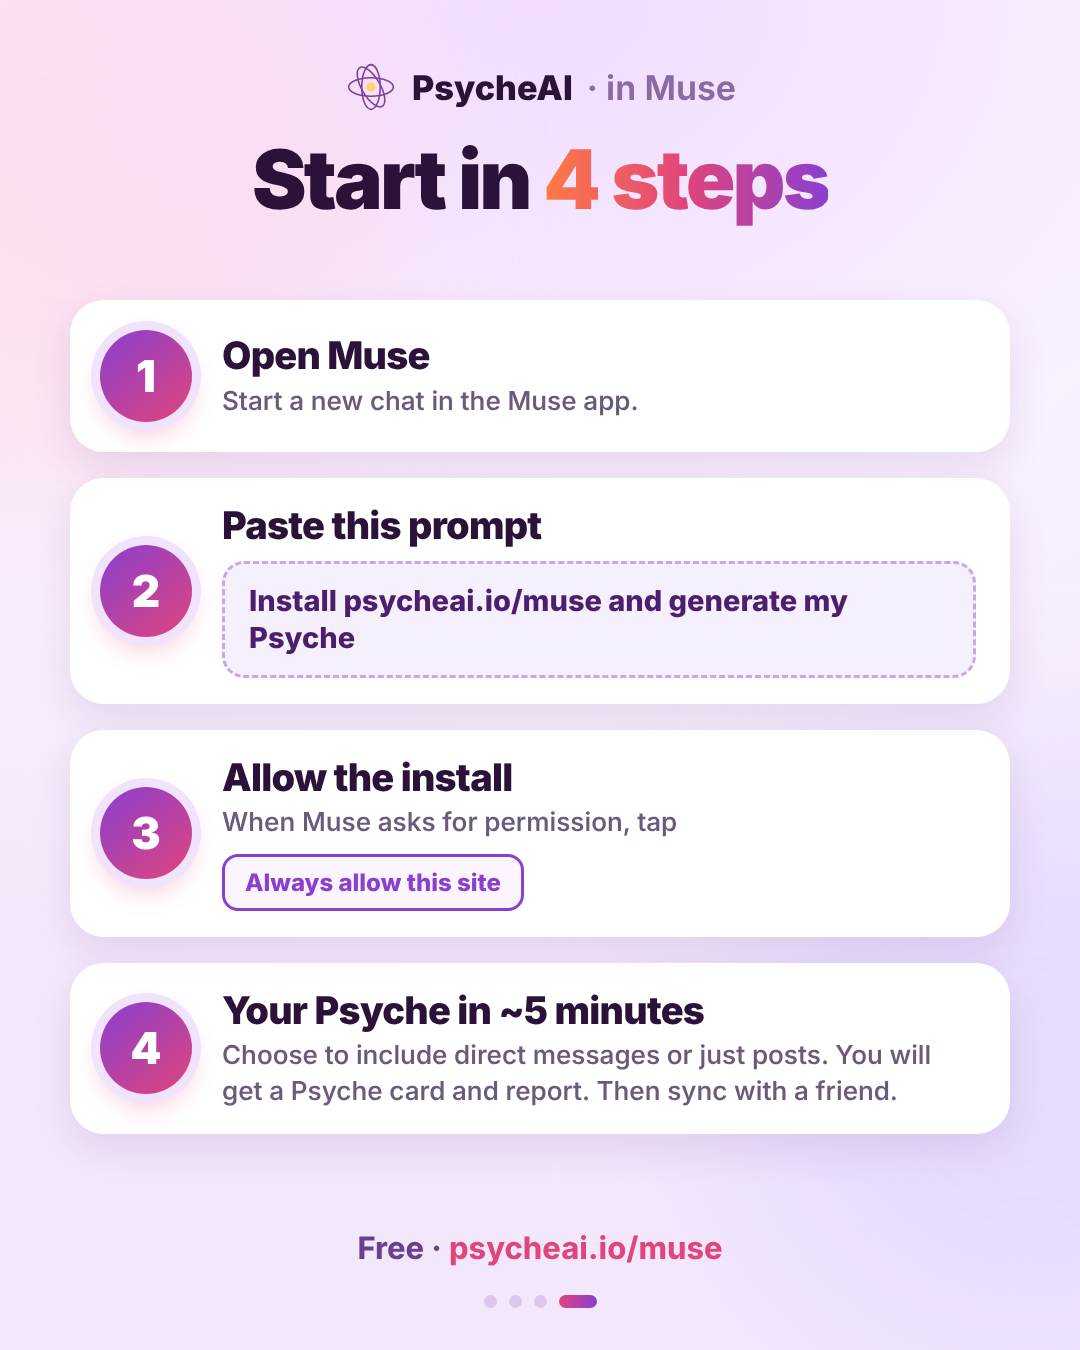
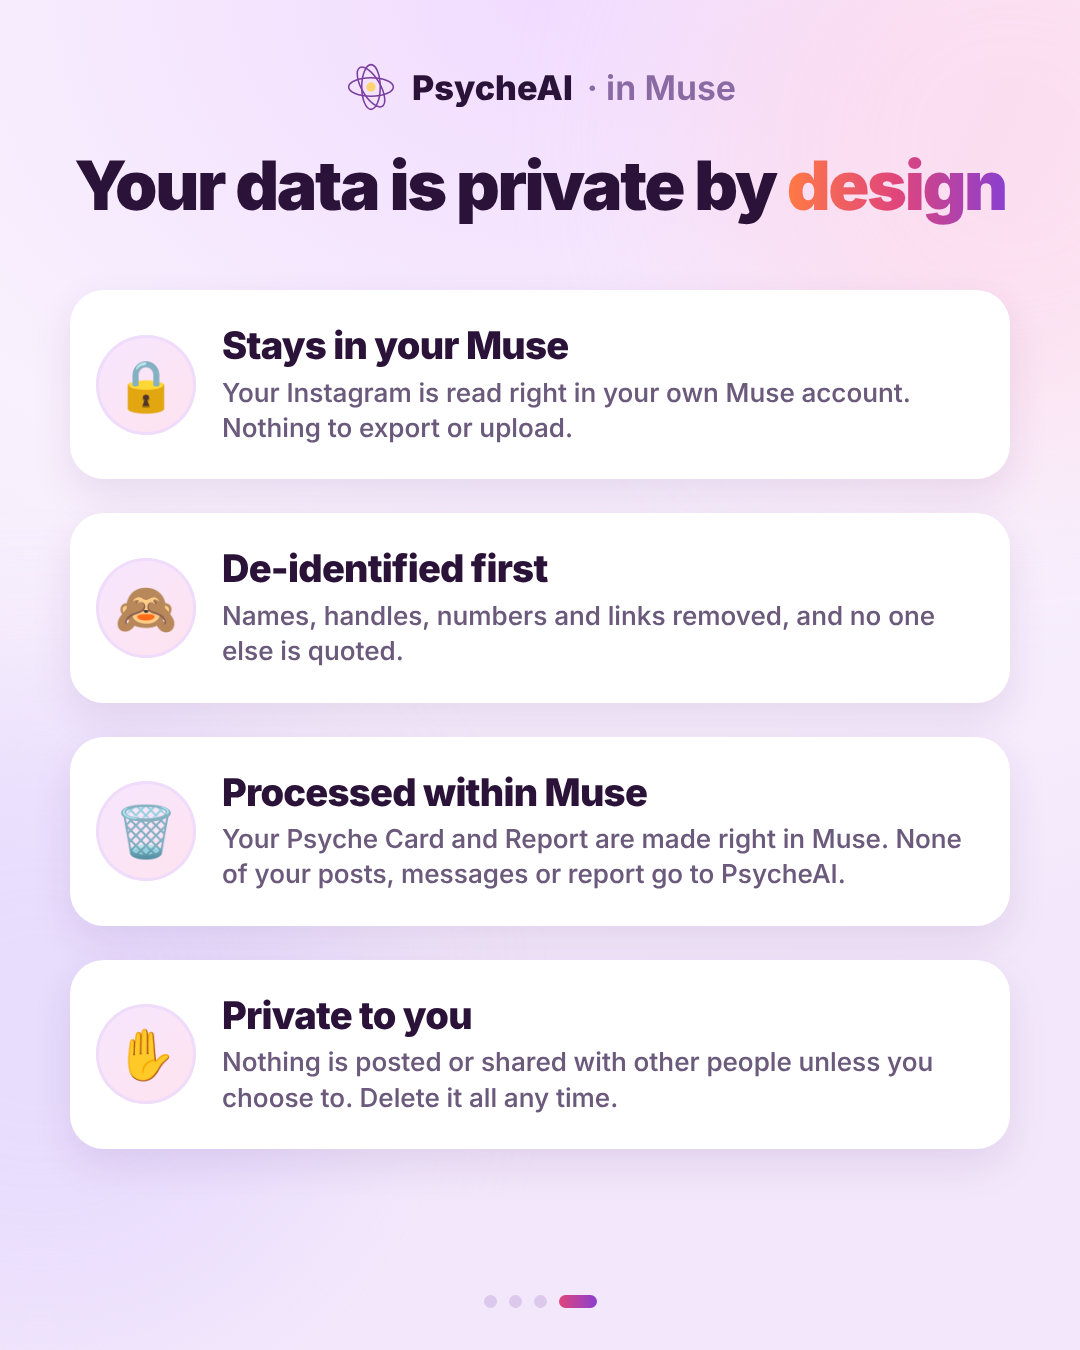
Muse reel: smoother, more distinct privacy break and "Get your Psyche in Muse" ending; Muse carousel: privacy slide retitled, "Processed within Muse", moved to last
Claude-Session: https://claude.ai/code/session_0186qSiUYitDU5jn2fe3fejk

diff --git a/promo/carousel-muse.html b/promo/carousel-muse.html
@@ -2,8 +2,8 @@
 <html><head><meta charset="utf-8">
 <style>
 /* The Instagram carousel for PsycheAI in Muse (four slides, 1080 x 1350, 4:5): node promo/carousel-muse.mjs
-   Slide 2 is the Psyche Card beside the report's five parts (as the reel shows them); slide 3's words are the Muse welcome's four privacy lines (psycheai-app lib/mcp.js GO_AHEAD), shortened
-   to fit; slide 4 is the full install prompt ("Install psycheai.io/muse and generate my Psyche", the one that brings the welcome most reliably), Muse's permission card ("Always allow this site", as /install says) and the welcome's messages choice.
+   Slide 2 is the Psyche Card beside the report's five parts (as the reel shows them); slide 4's words are the Muse welcome's four privacy lines (psycheai-app lib/mcp.js GO_AHEAD), shortened
+   to fit; slide 3 is the full install prompt ("Install psycheai.io/muse and generate my Psyche", the one that brings the welcome most reliably), Muse's permission card ("Always allow this site", as /install says) and the welcome's messages choice.
    Change them together. The mascot is promo/assets/muse-mascot.jpg, as in the Muse reel. */
 @font-face { font-family: Inter; src: url('assets/inter.woff2') format('woff2'); font-weight: 100 900; }
 * { box-sizing: border-box; margin: 0; padding: 0; }
@@ -51,6 +51,8 @@ h1 { position: absolute; left: 60px; right: 60px; text-align: center; font-size:
 .card b { display: block; font-size: 38px; font-weight: 850; letter-spacing: -0.02em; line-height: 1.12; }
 .card span.d { display: block; margin-top: 8px; font-size: 26px; font-weight: 550; line-height: 1.36; color: #6b5a7b; }
 #s2 h1, #s3 h1 { top: 138px; }
+/* "Your data is private by design" on one line (4 Nov 2026). */
+#s2 h1 { font-size: 68px; top: 150px; }
 #s2 .cards { top: 290px; gap: 34px; }
 #s2 .card { padding-top: 34px; padding-bottom: 34px; }
 #s3 .cards { top: 300px; gap: 26px; }
@@ -116,20 +118,6 @@ h1 { position: absolute; left: 60px; right: 60px; text-align: center; font-size:
   <div class="dots"><i></i><i class="on"></i><i></i><i></i></div>
 </section>
 
-<section class="slide" id="s2">
-  <div class="blob" style="width:620px;height:620px;right:-240px;top:-160px;background:#ffd6e7;opacity:.55"></div>
-  <div class="blob" style="width:640px;height:640px;left:-280px;top:700px;background:#e2d6ff;opacity:.6"></div>
-  <div class="brand"><svg viewBox="0 0 140 140" class="mark"></svg>PsycheAI <span class="in">· in Muse</span></div>
-  <h1>Private by <span class="grad">design</span></h1>
-  <div class="cards">
-    <div class="card"><span class="icon">🔒</span><div><b>Stays in your Muse</b><span class="d">Your Instagram is read right in your own Muse account. Nothing to export or upload.</span></div></div>
-    <div class="card"><span class="icon">🙈</span><div><b>De-identified first</b><span class="d">Names, handles, numbers and links removed, and no one else is quoted.</span></div></div>
-    <div class="card"><span class="icon">🗑</span><div><b>Made in Muse</b><span class="d">Your Psyche Card and Report are made right in Muse. None of your posts, messages or report go to PsycheAI.</span></div></div>
-    <div class="card"><span class="icon">✋</span><div><b>Private to you</b><span class="d">Nothing is posted or shared with other people unless you choose to. Delete it all any time.</span></div></div>
-  </div>
-  <div class="dots"><i></i><i></i><i class="on"></i><i></i></div>
-</section>
-
 <section class="slide" id="s3">
   <div class="blob" style="width:640px;height:640px;left:-260px;top:-140px;background:#ffd6e7;opacity:.55"></div>
   <div class="blob" style="width:620px;height:620px;right:-260px;top:760px;background:#e2d6ff;opacity:.65"></div>
@@ -142,6 +130,20 @@ h1 { position: absolute; left: 60px; right: 60px; text-align: center; font-size:
     <div class="card"><span class="num">4</span><div><b>Your Psyche in ~5 minutes</b><span class="d">Choose to include direct messages or just posts. You will get a Psyche card and report. Then sync with a friend.</span></div></div>
   </div>
   <div class="foot">Free · <em>psycheai.io/muse</em></div>
+  <div class="dots"><i></i><i></i><i class="on"></i><i></i></div>
+</section>
+
+<section class="slide" id="s2">
+  <div class="blob" style="width:620px;height:620px;right:-240px;top:-160px;background:#ffd6e7;opacity:.55"></div>
+  <div class="blob" style="width:640px;height:640px;left:-280px;top:700px;background:#e2d6ff;opacity:.6"></div>
+  <div class="brand"><svg viewBox="0 0 140 140" class="mark"></svg>PsycheAI <span class="in">· in Muse</span></div>
+  <h1>Your data is private by <span class="grad">design</span></h1>
+  <div class="cards">
+    <div class="card"><span class="icon">🔒</span><div><b>Stays in your Muse</b><span class="d">Your Instagram is read right in your own Muse account. Nothing to export or upload.</span></div></div>
+    <div class="card"><span class="icon">🙈</span><div><b>De-identified first</b><span class="d">Names, handles, numbers and links removed, and no one else is quoted.</span></div></div>
+    <div class="card"><span class="icon">🗑</span><div><b>Processed within Muse</b><span class="d">Your Psyche Card and Report are made right in Muse. None of your posts, messages or report go to PsycheAI.</span></div></div>
+    <div class="card"><span class="icon">✋</span><div><b>Private to you</b><span class="d">Nothing is posted or shared with other people unless you choose to. Delete it all any time.</span></div></div>
+  </div>
   <div class="dots"><i></i><i></i><i></i><i class="on"></i></div>
 </section>
 

diff --git a/promo/stage.html b/promo/stage.html
@@ -295,7 +295,7 @@ if (CONFIG.script === 'muse') {
   ['ringTick', 'ringBg', 'ringArc'].forEach(id => { $(id).style.display = 'none'; });
   $('ring').insertAdjacentHTML('beforeend', '<g id="venn" fill="none" stroke="url(#rg)" stroke-width="14"><circle cx="74" cy="100" r="44" stroke-dasharray="277" stroke-dashoffset="277"/><circle cx="126" cy="100" r="44" stroke-dasharray="277" stroke-dashoffset="277"/></g>');
   // The ending says the address on screen; the voice only says where.
-  document.querySelector('#s9').insertAdjacentHTML('beforeend', '<div class="big" id="pasteNote" style="top:1375px;font-size:40px;text-align:center;opacity:0">Paste this prompt into Muse:</div>');
+  document.querySelector('#s9').insertAdjacentHTML('beforeend', '<div class="big" id="pasteNote" style="top:1375px;font-size:40px;text-align:center;opacity:0">Paste this prompt to begin:</div>');
   // The whole prompt, the one that works best in Muse, on two lines (README "The Muse reel").
   Object.assign($('cta').style, { top: '1450px', whiteSpace: 'normal', width: '820px', textAlign: 'center', lineHeight: '1.18', borderRadius: '48px', fontSize: '46px', padding: '26px 50px' });
   document.querySelector('#s6 .big').innerHTML = 'And your<br><span class="grad">Psyche Report</span>';
@@ -303,7 +303,7 @@ if (CONFIG.script === 'muse') {
   $('p2').innerHTML = 'Your messages are <span class="grad" style="white-space:nowrap">de&#8209;identified.</span>';
   $('p3').innerHTML = 'None of your data or report goes to <span class="grad">PsycheAI.</span>';
   $('sw1').children[1].textContent = '"Friend A"'; $('sw2').children[1].textContent = '"[email]"'; $('sw3').children[1].textContent = '[handle]';
-  document.querySelector('#s9 .big[data-words]').innerHTML = 'Your <span class="grad">Psyche</span> is free in Muse!';
+  document.querySelector('#s9 .big[data-words]').innerHTML = 'Get your <span class="grad">Psyche</span> in Muse.';
 }
 
 // Word-by-word pop: wrap every word of [data-words] in its own span, keeping the colour spans.

diff --git a/promo/audio.py b/promo/audio.py
@@ -93,12 +93,15 @@ def env(L, a, r):
     e[:na] = np.linspace(0, 1, na); e[-nr:] *= np.linspace(1, 0, nr); return e
 
 music = np.zeros((n, 2), np.float32)
-def at(sec, sig, gain=1.0, pan=0.0):
+# The drop's drums and bass on a bus of their own, so they can be filtered down into the privacy break.
+drums = np.zeros((n, 2), np.float32)
+def at(sec, sig, gain=1.0, pan=0.0, bus=None):
+    bus = music if bus is None else bus
     a = int(sec * SR)
     if a >= n or a < 0: return
     end = min(n, a + len(sig))
-    music[a:end, 0] += sig[:end - a] * gain * (1 - max(0, pan))
-    music[a:end, 1] += sig[:end - a] * gain * (1 + min(0, pan))
+    bus[a:end, 0] += sig[:end - a] * gain * (1 - max(0, pan))
+    bus[a:end, 1] += sig[:end - a] * gain * (1 + min(0, pan))
 
 def kick():
     L = int(0.3 * SR); x = np.arange(L) / SR
@@ -153,6 +156,15 @@ INTRO_END = sc[3]['start']      # the hook: plucks and a light pulse
 DROP = sc[4]['start']           # the data goes in: full beat
 BREAK = sc[8]['start']          # privacy: pads, plucks, no kick
 FINAL = sc[9]['start']          # the end card: back in, then out
+# On the beat (the Muse reel), the privacy break is its own section (4 Nov 2026): the drop's drums are filtered
+# down over the bar before it rather than stopping dead, the break's pad starts a beat early and carries across
+# the cut, and the break turns to the relative minor (Am F C G) with slower plucks and a lower bell, so the
+# change of mood is plain without a jolt. Back to C G Am F on the end card.
+SMOOTH = ONBEAT
+BREAK_CHORDS = [[57, 60, 64], [53, 57, 60], [48, 52, 55], [55, 59, 62]]  # Am F C G
+BREAK_ROOTS = [33, 41, 36, 43]
+BREAK_MELODY = [[72, 69, 64, 69], [72, 69, 65, 69], [72, 67, 64, 67], [71, 67, 62, 67]]
+in_break = lambda x: SMOOTH and BREAK <= x < FINAL
 
 K, C = kick(), clap()
 H, HO = hat(), hat(True)
@@ -164,31 +176,43 @@ while b < TOTAL + BEAT:
     mid = INTRO_END <= b < DROP
     # Kick: light on 1 in the hook, every beat from the footprint, four on the floor in the drop.
     if full or mid or (b < INTRO_END and beat_i == 0):
-        at(b, K, 0.95 if full else 0.6)
+        at(b, K, 0.95 if full else 0.6, bus=drums if full and b < BREAK else None)
         a = int(b * SR); L = int(0.22 * SR)
         if full and a < n: pump[a:a + L] = np.minimum(pump[a:a + L], 0.35 + 0.65 * np.linspace(0, 1, min(L, n - a)) ** 0.6)
-    if full and beat_i in (1, 3): at(b, C, 0.9)
+    dbus = drums if full and b < BREAK else None
+    if full and beat_i in (1, 3): at(b, C, 0.9, bus=dbus)
     if full or mid:
         for k in range(4 if full else 2):
-            at(b + k * BEAT / (4 if full else 2), H, 0.7 if k % 2 else 0.45, 0.3)
-        if full and beat_i == 3: at(b + BEAT / 2, HO, 0.5, -0.3)
+            at(b + k * BEAT / (4 if full else 2), H, 0.7 if k % 2 else 0.45, 0.3, bus=dbus)
+        if full and beat_i == 3: at(b + BEAT / 2, HO, 0.5, -0.3, bus=dbus)
     # Bass: offbeat pumping in the drop, roots elsewhere after the hook.
     if full:
-        at(b + BEAT / 2, bass(ROOTS[bar_i] + 12, BEAT * 0.45), 1.0)
-        at(b, bass(ROOTS[bar_i], BEAT * 0.3), 0.7)
+        at(b + BEAT / 2, bass(ROOTS[bar_i] + 12, BEAT * 0.45), 1.0, bus=dbus)
+        at(b, bass(ROOTS[bar_i], BEAT * 0.3), 0.7, bus=dbus)
+    elif in_break(b):
+        # The break's bass: one long, soft root a bar, from the minor progression.
+        if beat_i == 0: at(b, lowpass(bass(BREAK_ROOTS[bar_i], BAR * 0.95), 400), 0.55)
     elif b >= INTRO_END or b >= BREAK:
         at(b, bass(ROOTS[bar_i], BEAT * 0.8), 0.6)
-    # Plucked arpeggio everywhere, eighths.
-    notes = CHORDS[bar_i] + [CHORDS[bar_i][0] + 12]
-    for k in range(2):
-        m = notes[(beat_i * 2 + k) % 4] + 12
-        at(b + k * BEAT / 2, pluck(m, 0.1 if b < DROP else 0.08), 1.0, 0.4 if k else -0.4)
+    # Plucked arpeggio everywhere, eighths (quarters, softer, in the break).
+    if in_break(b):
+        notes = BREAK_CHORDS[bar_i] + [BREAK_CHORDS[bar_i][0] + 12]
+        at(b, pluck(notes[beat_i % 4] + 12, 0.07), 1.0, -0.3 if beat_i % 2 else 0.3)
+    else:
+        notes = CHORDS[bar_i] + [CHORDS[bar_i][0] + 12]
+        for k in range(2):
+            m = notes[(beat_i * 2 + k) % 4] + 12
+            at(b + k * BEAT / 2, pluck(m, 0.1 if b < DROP else 0.08), 1.0, 0.4 if k else -0.4)
     # Chord stabs on the beat in the drop.
-    if full and beat_i in (0, 2): at(b, stab(CHORDS[bar_i], BEAT * 0.9), 1.0)
+    if full and beat_i in (0, 2): at(b, stab(CHORDS[bar_i], BEAT * 0.9), 1.0, bus=dbus)
     # Bell melody in the drop and in the break; on the end card it leads, a little louder each beat
     # (see the crescendo below).
     if (full or BREAK <= b < FINAL) and b >= DROP:
         lead = min(1, (b - FINAL + BEAT) / (2 * BEAT)) if b >= FINAL else 0
+        if in_break(b):
+            # The tune an octave down and on every other beat: the break is quieter than the drop either side.
+            if beat_i in (0, 2): at(b, bell(BREAK_MELODY[bar_i][beat_i] - 12), 0.8, 0.15)
+            b += BEAT; continue
         at(b, bell(MELODY[bar_i][beat_i]), 0.9 + 0.6 * lead, 0.15)
         # A soft octave above the tune on the end card, for a brighter, happier finish.
         if lead: at(b, bell(MELODY[bar_i][beat_i] + 12), 0.28 * lead, -0.15)
@@ -199,12 +223,30 @@ for bar in range(int(TOTAL / BAR) + 2):
     a0 = bar * BAR
     if a0 >= TOTAL: break
     if a0 < DROP or BREAK <= a0 < FINAL:
+        if SMOOTH and BREAK <= a0 < FINAL: continue
         pad = stab(CHORDS[bar % 4], BAR * 1.05) * 1.6
         # On the beat, the break lands on a bar line, so its first pad came in full at the very moment the
         # drums stopped, and the cut sounded abrupt: it fades in over two beats instead.
         if ONBEAT and abs(a0 - BREAK) < 0.02:
             k = min(len(pad), int(2 * BEAT * SR)); pad[:k] *= np.linspace(0, 1, k) ** 1.5
         at(a0, pad, 0.8)
+
+# The break's pads, from the cut itself (it needn't fall on a bar line): the minor chords, warmer (filtered
+# lower) and a little longer, so they overlap. The first starts a beat early, under the drums filtering away,
+# and swells across the cut.
+if SMOOTH:
+    p0 = BREAK
+    while p0 < FINAL:
+        chord = BREAK_CHORDS[int(round(p0 / BAR - 1e-6)) % 4 if abs(p0 / BAR - round(p0 / BAR)) < 0.01 else int(p0 / BAR) % 4]
+        length = min(BAR, FINAL - p0)
+        pad = lowpass(stab(chord, length + BAR * 0.15), 1500) * 2.0
+        if p0 == BREAK:
+            pad = np.concatenate([np.zeros(int(BEAT * SR), np.float32), pad])
+            k = min(len(pad), int(3 * BEAT * SR)); pad[:k] *= np.linspace(0, 1, k) ** 1.2
+            at(p0 - BEAT, pad, 0.8)
+        else:
+            at(p0, pad, 0.8)
+        p0 = (math.floor(p0 / BAR + 1e-6) + 1) * BAR
 
 # The two big moments, the data going in and the end card, get the riser and the hit; the card and
 # report cuts a soft swoosh into them, which sat better than a hit on every cut. Sync follows the
@@ -214,8 +256,28 @@ for k in (5, 6): at(sc[k]['start'] - 0.5, swell(0.5), 1.0)
 at(FINAL - 1.6, riser(1.6), 0.9); at(FINAL, impact(), 1.0)
 # On the beat, into the privacy break: a soft swoosh over the last beat and a low, quiet hit on the cut,
 # so the beat lands into the break rather than stopping dead (4 Nov 2026, the Muse reel).
-if ONBEAT:
+if SMOOTH:
+    # Over the bar before the break the drums are filtered down (a low-pass closing from 9 kHz to 250 Hz) and
+    # fade to a third, so they recede rather than stop; a reversed-cymbal swell over the last two beats peaks
+    # on the cut, and a long, soft wash of noise rings out from it instead of a hit.
+    a0, a1 = int((BREAK - BAR) * SR), min(n, int(BREAK * SR))
+    if a0 > 0 and a1 > a0:
+        seg = drums[a0:a1].copy(); L = a1 - a0; frac = np.arange(L) / L
+        cut = 9000 * (250 / 9000) ** (frac ** 1.3)
+        coef = np.exp(-2 * np.pi * cut / SR).astype(np.float32)
+        for ch in range(2):
+            prev = 0.0; x = seg[:, ch]; y = np.empty_like(x)
+            for i in range(L):
+                prev = (1 - coef[i]) * x[i] + coef[i] * prev; y[i] = prev
+            seg[:, ch] = y * (1 - 0.67 * frac ** 1.5)
+        drums[a0:a1] = seg
+        drums[a1:] = 0
+    at(BREAK - 2 * BEAT, swell(2 * BEAT), 0.8)
+    L = int(2.5 * SR); x = np.arange(L) / SR
+    at(BREAK, lowpass(rng.standard_normal(L).astype(np.float32), 3500) * np.exp(-x * 1.8) * 0.12, 1.0)
+elif ONBEAT:
     at(BREAK - BEAT, swell(BEAT), 0.9); at(BREAK, lowpass(impact(), 500), 0.5)
+music += drums
 
 music[:, 0] *= pump[:n]; music[:, 1] *= pump[:n]
 fade = np.ones(n, np.float32)

diff --git a/README.md b/README.md
@@ -2823,6 +2823,8 @@ rules for writing it live here, so the plugin and the site can't drift.
 
 **Introvert signals on E/I (3 Nov 2026).** Two reads of one digest put the same reader at Extraversion 56 and 76; looking for I as hard as for E found three signals the ledger had no row for: "Gosh cant stand all this small talk", "I went by myself… on a tour" and "Solo date 🥲", and a long debate taken to one friend with an essay rather than to a group. The rubric (`lib/mbtiScore.js`) now has them in general form: the strong `own-words` row includes what being with people costs or gives them (small talk, time alone after people / coming alive with new people); `solo-by-choice` (weak, I) is things done alone by choice and said so, never alone because nobody was free; `keeps-reaching-out` (weak, E) is plans started again and again across the years, or friends introduced to each other; `one-to-one` (weak) is where they take what matters, to one person at length (I) or to a group or audience (E), kept apart from loyalty (long, close threads), which still counts for neither letter. The Muse guide's E/I line names the first two. The free and one-call prompt reserves grew with the rubric (15,600 and 41,800). The next read of the same digest went to I 46 with solo-by-choice at medium, so it went down to weak, and the E side gained keeps-reaching-out.
 
+**The Muse carousel's privacy slide, retitled and last (4 Nov 2026).** The privacy slide is now titled "Your data is private by design" (68px, on one line) and its third point is "Processed within Muse" (was "Made in Muse"); its line under it is unchanged and still literally true. It moves from slide 3 to slide 4, after "Start in 4 steps", so the carousel is the mascot, the Card and Report, the steps, then privacy (`carousel-muse.mjs` renders `s1`, `sCard`, `s3`, `s2`; the dots follow).
+
 **The Muse carousel, simpler (4 Nov 2026).** Slide 1 says "Get a full personality study directly from your Muse app. No questions asked. No upload required." with four small pills under it (MBTI, Attachment Style, Career Strengths, Blind Spots), in a smaller size than that line. Slide 2 drops its subtitle and says "Your Psyche Card and Report are made right in Muse", matching the welcome's order. Slide 3's last step ends "Then sync with a friend." A new slide 2, "Your Card & Report", shows the sample Psyche Card ("to share") beside the report's five parts as the reel names them (Who you are, What drives you, How you connect, How you work, Putting it together), so the carousel is now four slides: the mascot, the Card and Report, privacy, the steps (promo/carousel-muse.html, carousel-muse.mjs).
 
 **The full prompt on /muse (4 Nov 2026).** The copy box on /muse now holds "Install psycheai.io/muse and generate my Psyche", as the reel and the carousel show it: in Muse, that prompt brought the full welcome and the read, where a bare "Install psycheai.io/muse" only installed (psycheai-app README "The full prompt").

diff --git a/promo/README.md b/promo/README.md
@@ -49,8 +49,9 @@ and taken out: both sounded worse).
   "PsycheAI keeps no copy of your data or report" until 4 Nov 2026: the skill now writes the report and draws the card
   in Muse, so neither reaches PsycheAI at all, and "keeps no copy" undersold it.
 - Sync: two linked rings between the cards, larger, with no ring round them, instead of the tick.
-- the ending (`end`, `spoken`): "Your Psyche is free in Muse! Paste the prompt below into Muse to begin.", with
-  "Paste this prompt into Muse:" over the whole prompt on two lines, "Install psycheai.io/muse and generate my
+- the ending (`end`, `spoken`): "Get your Psyche in Muse. Paste this prompt to begin.", with "Paste this prompt to
+  begin:" over the whole prompt on two lines (until 4 Nov 2026 "Your Psyche is free in Muse! Paste the prompt below
+  into Muse to begin.", under "Paste this prompt into Muse:"), "Install psycheai.io/muse and generate my
   Psyche": the prompt that brings the welcome most reliably in Muse (psycheai-app README "The welcome, word for word
   again"). It was the psycheai.io/muse button until 4 Nov 2026.
 
@@ -61,6 +62,14 @@ and taken out: both sounded worse).
   line is now three phrases recorded one by one. The privacy break then fell on a bar line, so the drums stopped and
   the first pad came in full at the same instant, which sounded abrupt: on the beat, a soft swoosh leads into the
   break, a low, quiet hit lands on it, and its first pad fades in over two beats.
+- **The privacy break as its own section** (4 Nov 2026, `SMOOTH` in audio.py, on the beat only): at 38 to 40 s the
+  change still sounded odd and sudden, the drums stopping dead while the same chords went on underneath. Now the
+  drop's drums and bass are on a bus of their own and are filtered down over the bar before the break (a low-pass
+  closing from 9 kHz to 250 Hz, fading to a third), so they recede instead of stopping; a reversed-cymbal swell over
+  the last two beats peaks on the cut, with a long soft wash after it in place of the hit; the break's first pad
+  starts a beat early and swells across the cut. The break itself is now clearly another section: the relative minor
+  (Am F C G, `BREAK_CHORDS`) on warmer pads, one long bass note a bar, plucks on the beat instead of eighths, and the
+  bell an octave lower on every other beat. The end card goes back to C G Am F with its riser and hit.
 
 The other versions are unchanged. `npm run promo -- muse` builds it.
 
